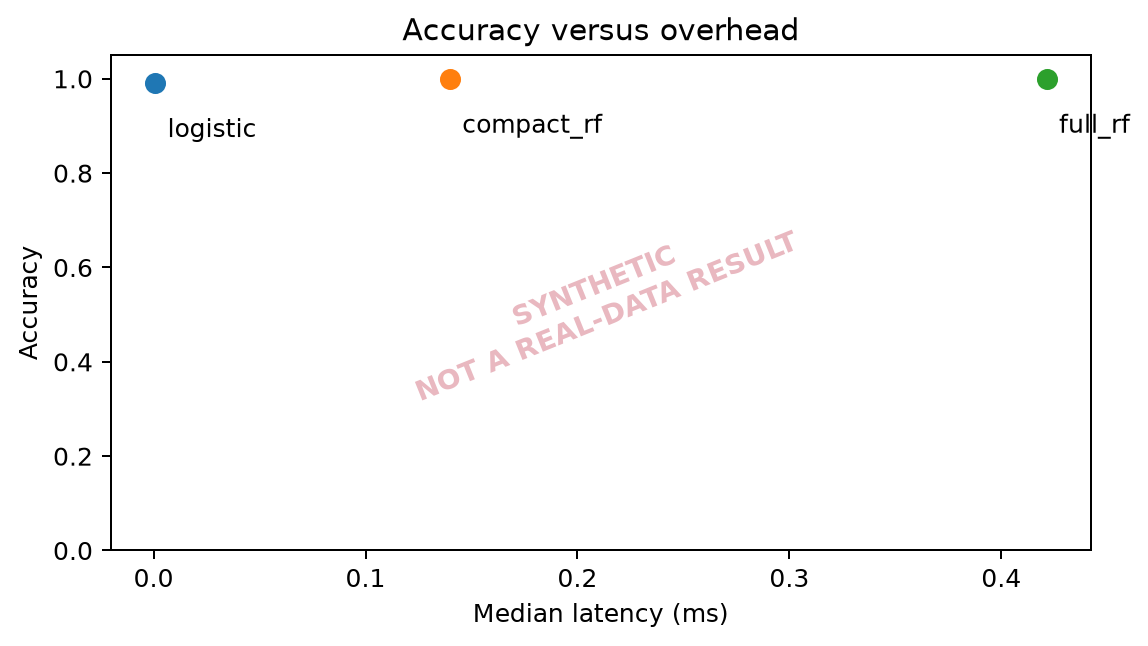
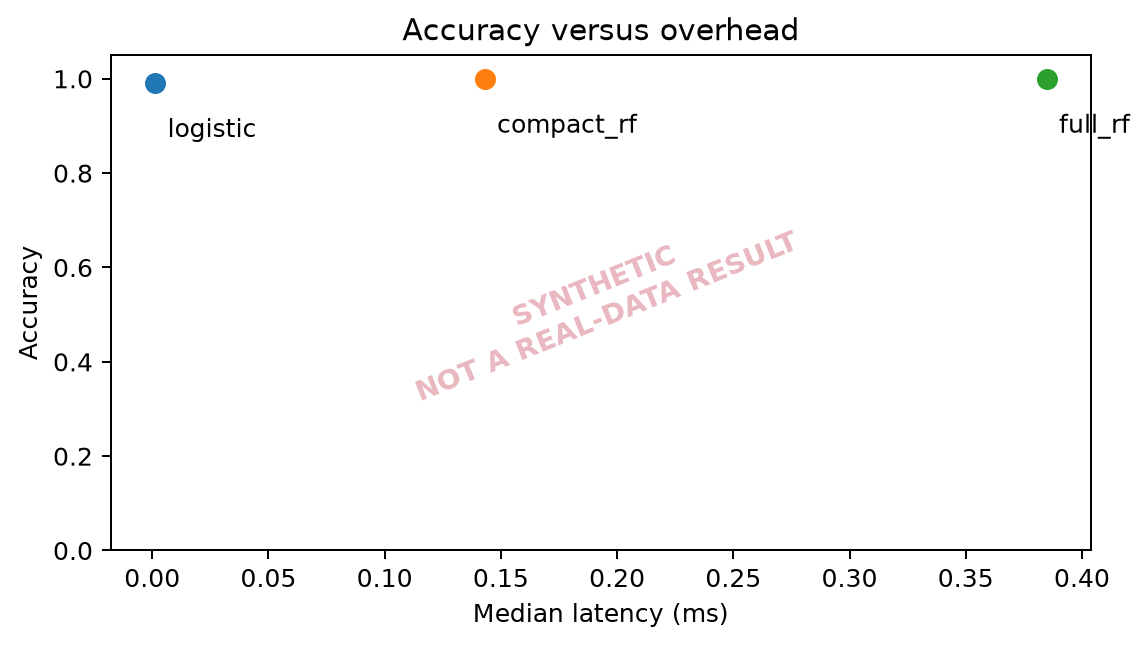
perf: refresh reproducibility evidence

diff --git a/src/ats/efficiency/benchmark.py b/src/ats/efficiency/benchmark.py
@@ -1,11 +1,12 @@
 """Repeatable warmed-up latency and peak-memory measurements."""
 from __future__ import annotations
 
+import os
 import platform
 import statistics
 import tracemalloc
 from pathlib import Path
-from time import perf_counter
+from time import perf_counter, process_time
 from typing import Callable, Dict
 
 import numpy as np
@@ -20,18 +21,28 @@ def benchmark_callable(
         function()
     tracemalloc.start()
     timings = []
+    cpu_started = process_time()
     for _ in range(runs):
         started = perf_counter()
         function()
         timings.append((perf_counter() - started) * 1000.0)
     _, peak = tracemalloc.get_traced_memory()
     tracemalloc.stop()
+    cpu_seconds = process_time() - cpu_started
+    wall_seconds = sum(timings) / 1000.0
+    logical_processors = max(os.cpu_count() or 1, 1)
     return {
         "runs": int(runs),
         "warmup_runs": int(warmup),
         "median_latency_ms": float(statistics.median(timings)),
         "p95_latency_ms": float(np.percentile(timings, 95)),
         "peak_python_memory_mb": float(peak / (1024 ** 2)),
+        "process_cpu_seconds": float(cpu_seconds),
+        "logical_processors": int(logical_processors),
+        "cpu_utilization_percent_of_machine": float(
+            100.0 * cpu_seconds / (wall_seconds * logical_processors)
+            if wall_seconds > 0 else 0.0
+        ),
     }
 
 

diff --git a/src/ats/eval/figures.py b/src/ats/eval/figures.py
@@ -5,6 +5,9 @@ import json
 from pathlib import Path
 from typing import Mapping
 
+import matplotlib
+
+matplotlib.use("Agg")
 import matplotlib.pyplot as plt
 import numpy as np
 

diff --git a/README.md b/README.md
@@ -89,7 +89,8 @@ Transformers, and Accelerate are optional and needed only for the Qwen Task 4 pa
 - Preprocessing, feature extraction, three recognizers, timeline aggregation, Tasks
   1-3, grounded Task 4 fallback/Qwen validation, evaluation, figures, and efficiency
   benchmarking are implemented.
-- `pytest -q` currently passes 38 tests, including an end-to-end CLI test.
+- `pytest -q` currently passes 44 tests, including end-to-end CLI, downloader-recovery,
+  official-schema, preliminary-report-contract, and grounded-output checks.
 - Saved synthetic smoke-test outputs are under `artifacts/` and
   `report/figures/synthetic/`; all are explicitly stamped synthetic.
 - Real ExtraSensory training/evaluation and the Qwen weight run remain pending. The
